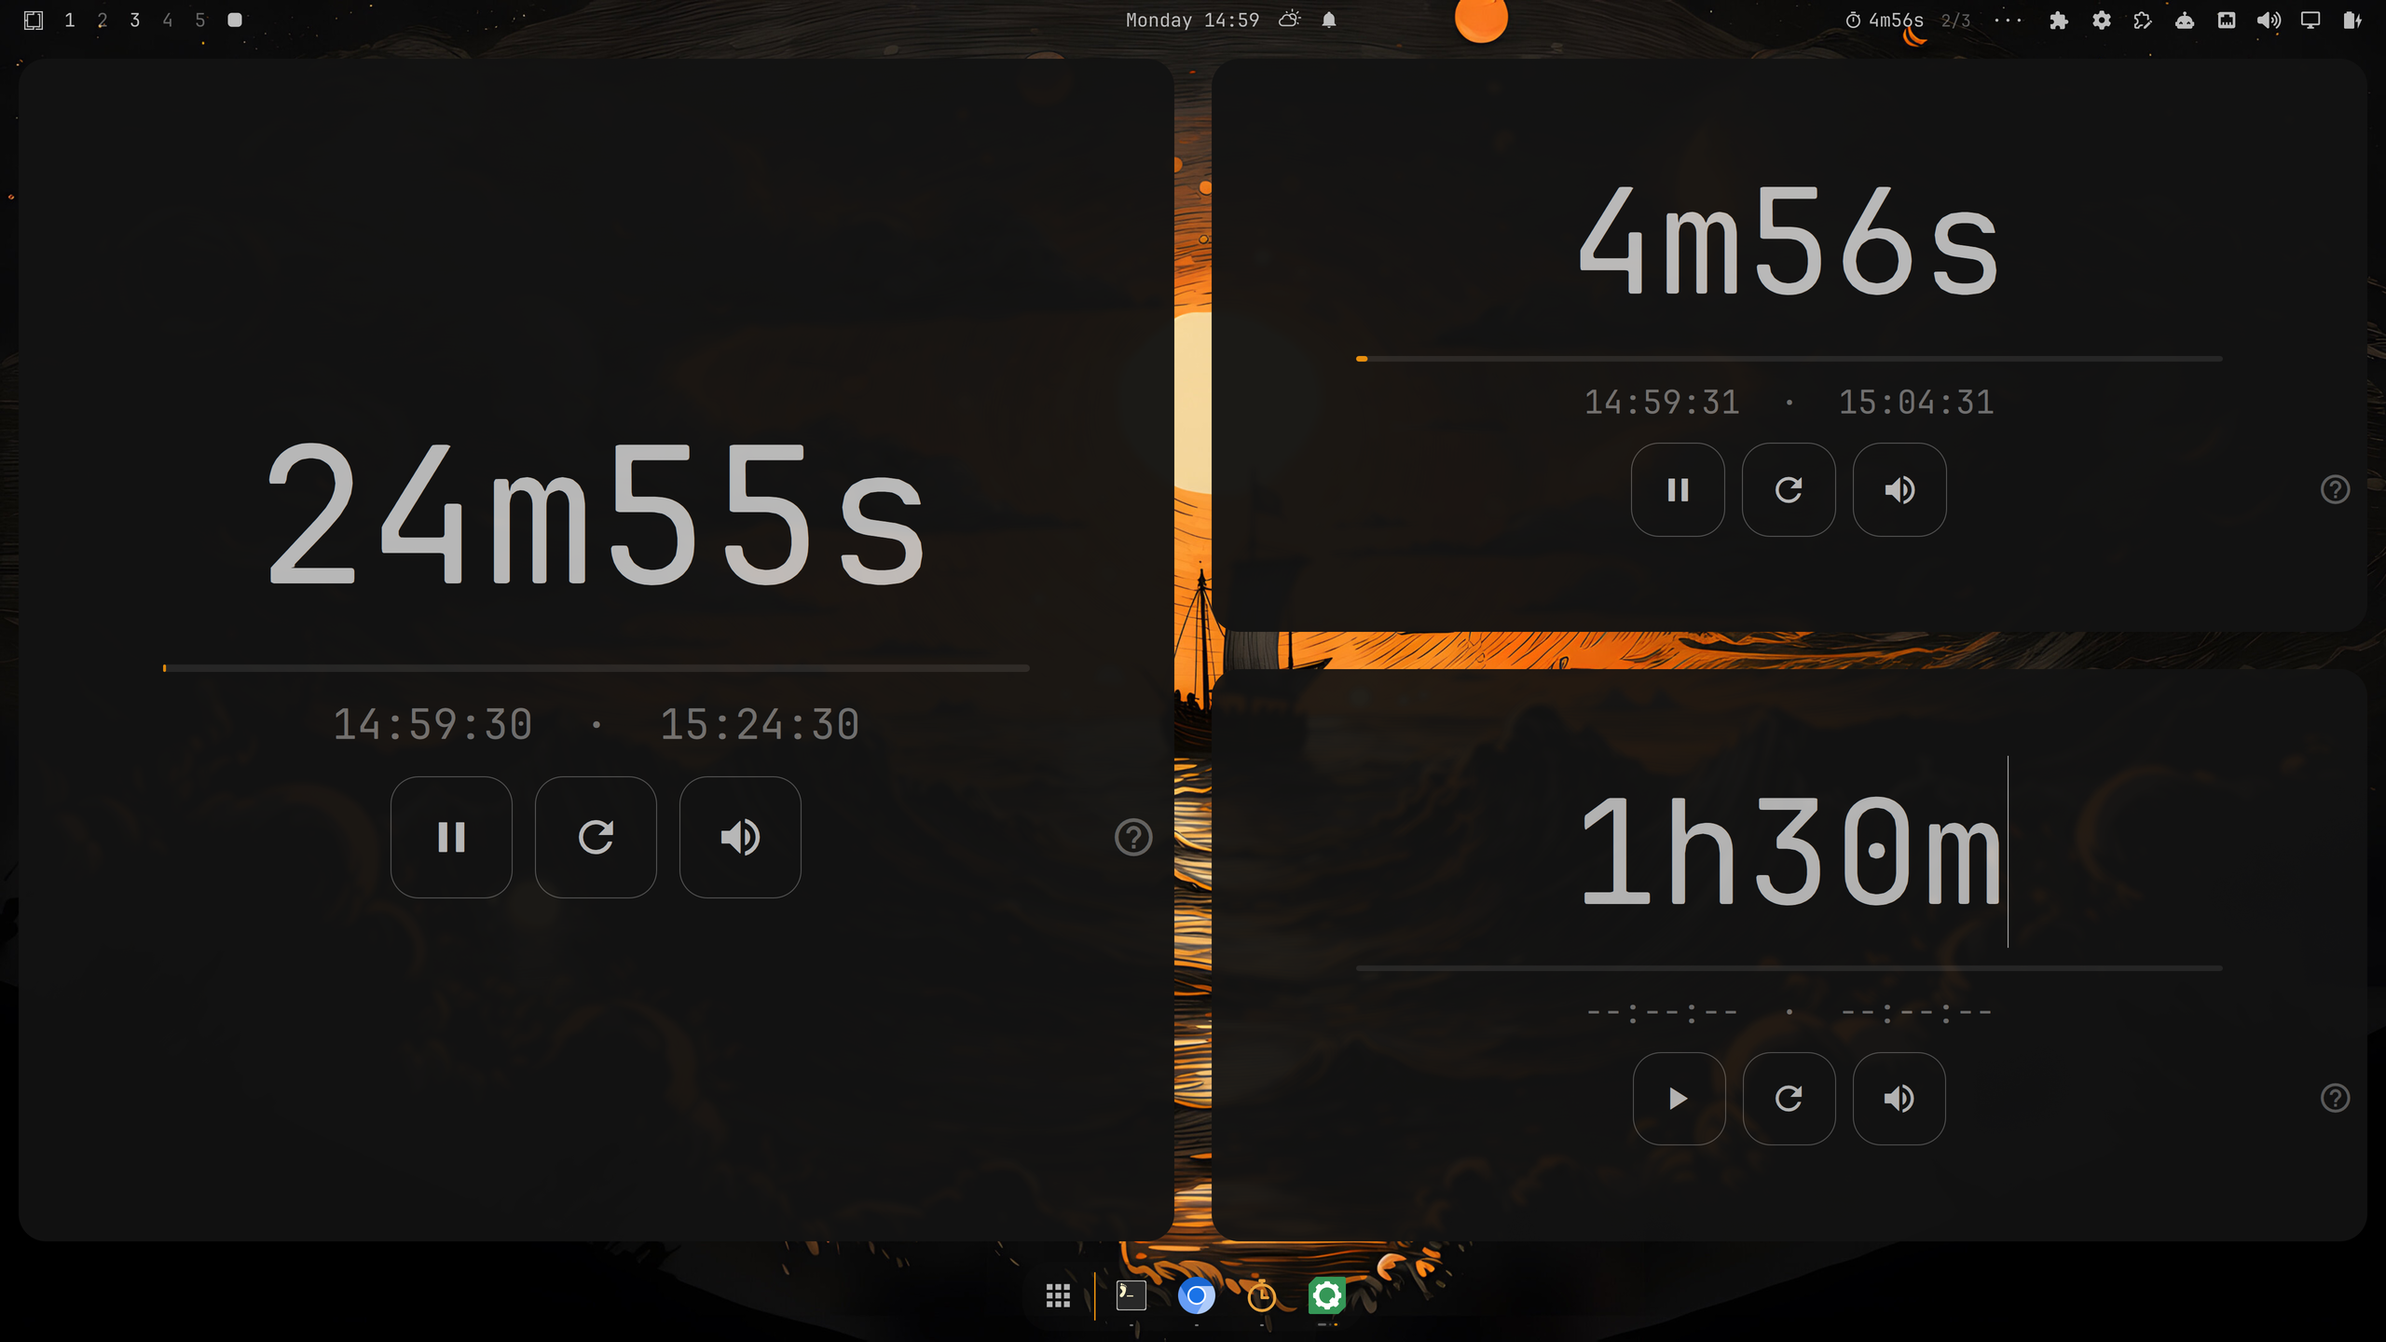
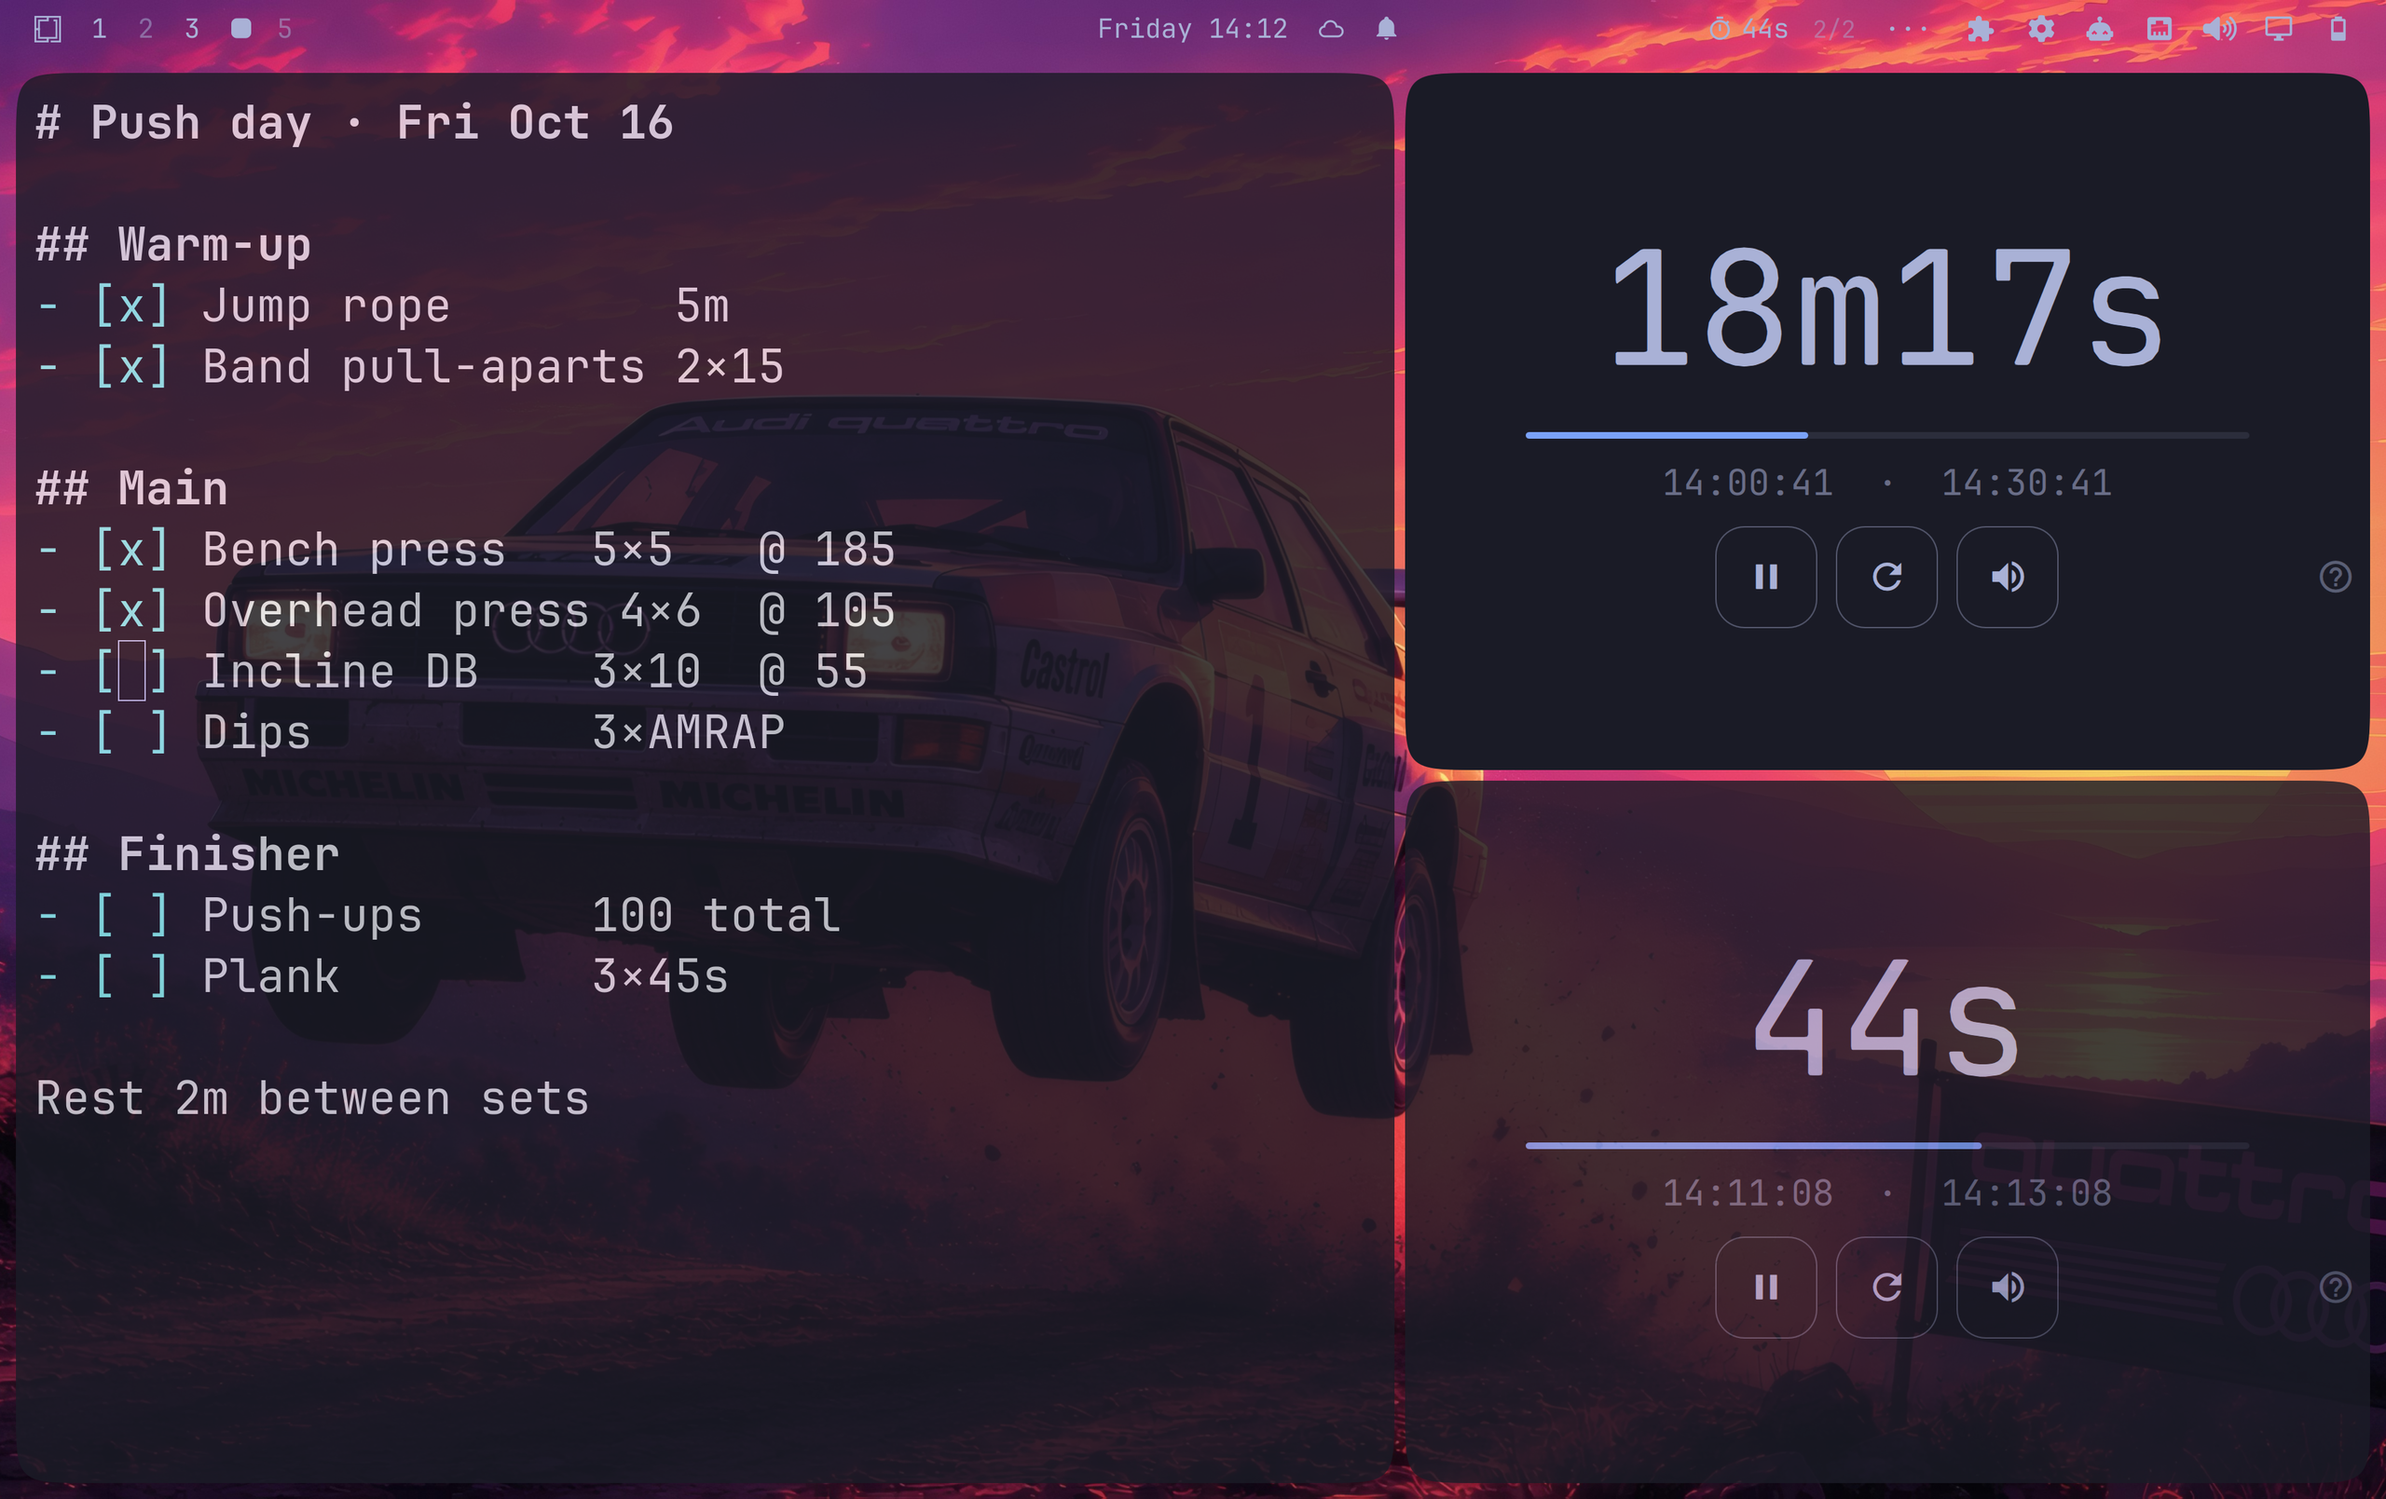
Preview: workout log beside two timers, plus a light-theme shot

diff --git a/README.md b/README.md
@@ -4,7 +4,7 @@ A countdown timer for Omarchy. Each timer is a real window that tiles,
 floats and closes like any app, or, if you prefer, a popup from the bar.
 Type a duration, press Enter; when it's up you get a chime and a notification.
 
-<img src="preview.png" alt="Three Omatimer windows tiled side by side, two counting down and one idle, with the bar showing 4m56s 2/3" width="720">
+<img src="preview.png" alt="A workout log in Neovim beside two Omatimer windows counting down, 18m17s and 44s, on the Tokyo Night theme" width="720">
 
 This is the shell-plugin version of [omatimer](https://github.com/isjake/omatimer),
 the standalone Qt app. It runs inside the Omarchy shell, so there's nothing to
@@ -72,6 +72,10 @@ dims. When it's done it says `done` until you open it.
 A running timer is saved with its deadline, so it carries on through a shell
 restart or a plugin update. If it ran out while the shell was down, it shows
 as done without ringing late.
+
+The timers take their colors from your Omarchy theme, light or dark:
+
+<img src="preview-rose-pine.png" alt="The same workout log and two timers on the light Rosé Pine theme" width="720">
 
 ## From scripts and keybindings
 
